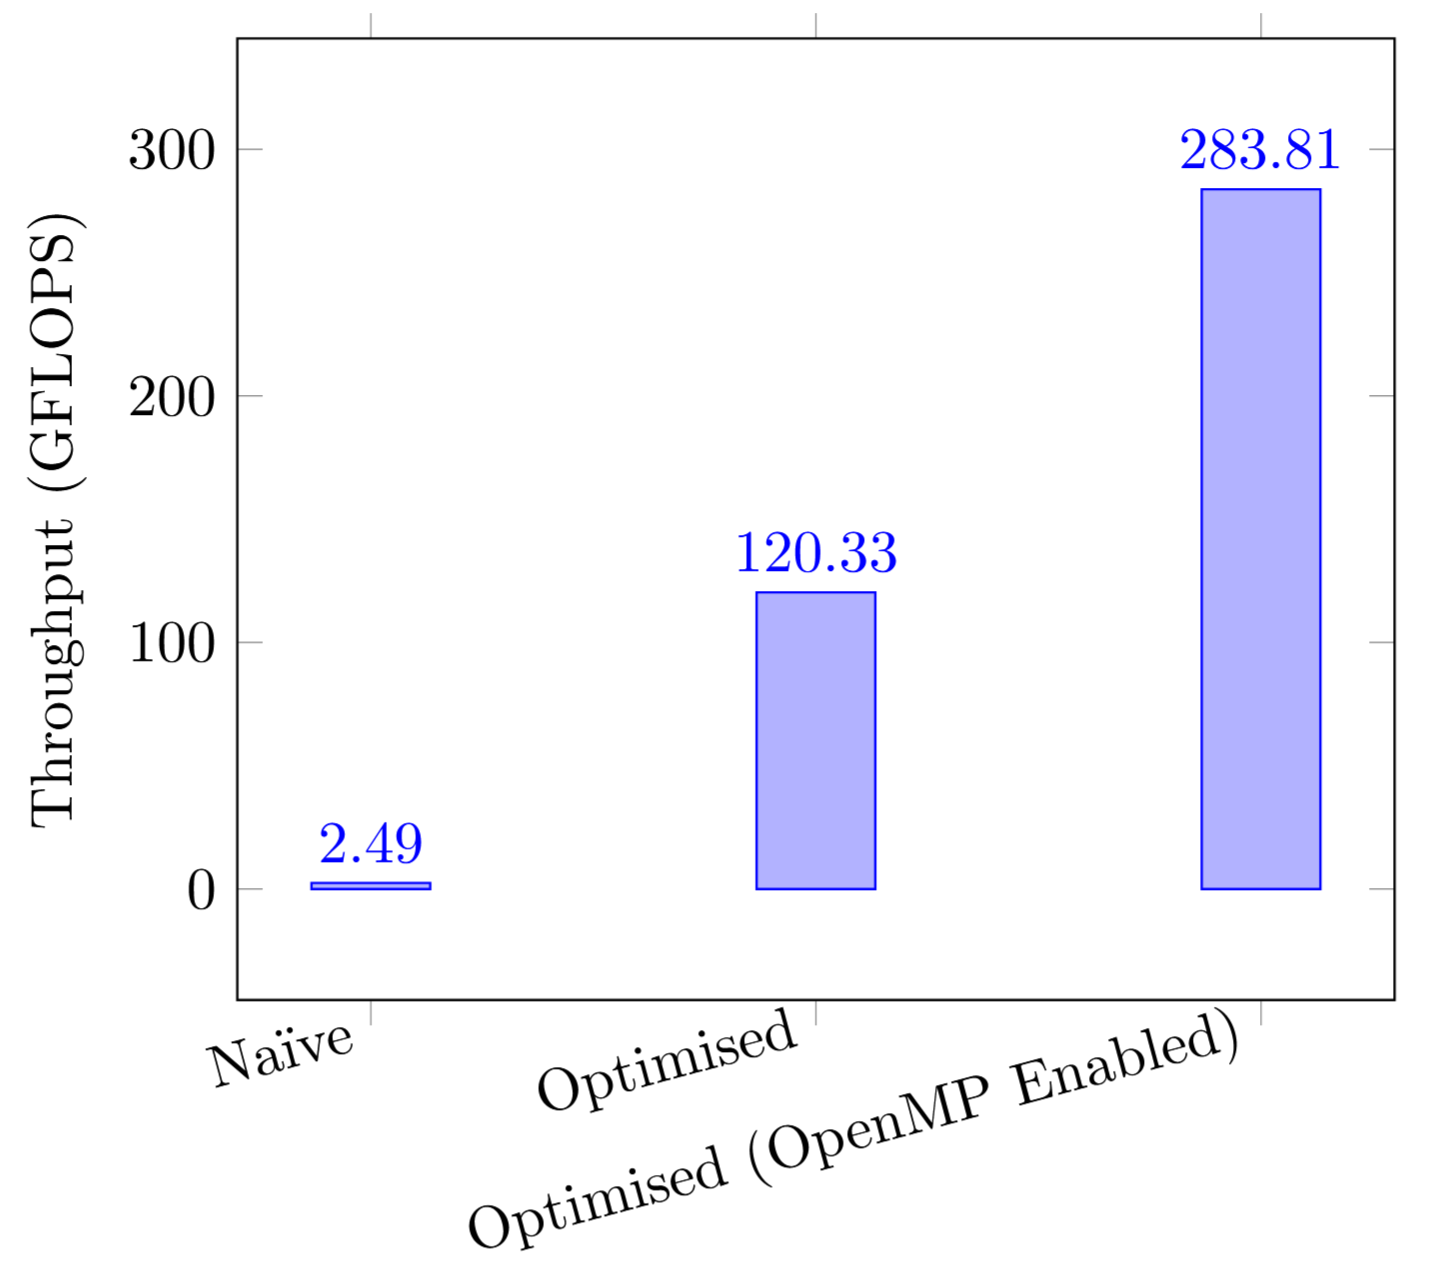
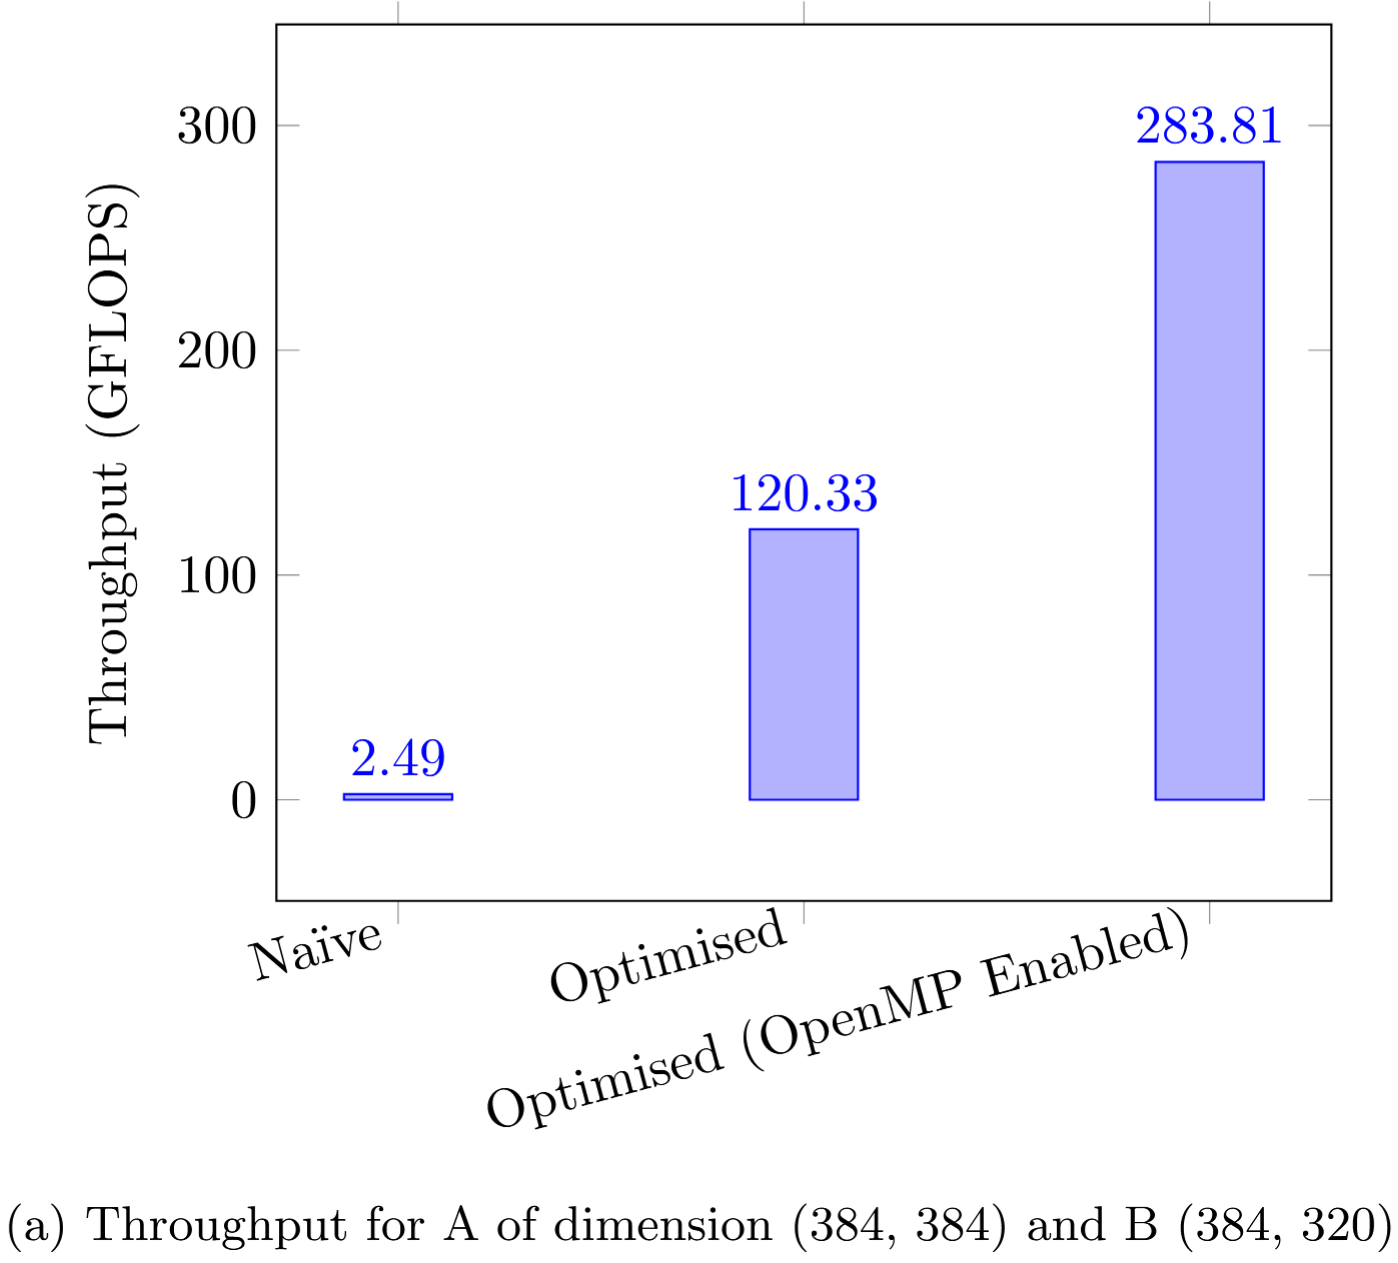
update image display

diff --git a/docs.md b/docs.md
@@ -117,17 +117,10 @@ The results, shown below, highlight the importance of optimising this operation.
 
 The optimised implementation was able to maintain a high amount of numerical accuracy with relative error measurements never exceeding $10^{-5}$ when compared with the naïve implementation. Given the use of floating-point numbers here, some error is expected and these results are well within acceptable floating-point tolerances.
 
-<div style="display: flex; justify-content: space-around;">
-  <figure>
-    <img src="img/results_384.png" alt="Image 1" style="max-width:100%;" />
-    <figcaption style="text-align: center;">Throughput for A of dimension (384, 384) and B (384, 320)</figcaption>
-  </figure>
-  <figure>
-    <img src="img/results_768.png" alt="Image 2" style="max-width:100%;" />
-    <figcaption style="text-align: center;">Throughput for A of dimension (768, 768) and B (768, 640)</figcaption>
-  </figure>
-</div>
-
+<p float="left">
+  <img src="img/results_384.png" width="48%" />
+  <img src="img/results_768.png" width="48%" /> 
+</p>
 
 > Note: The results shown were the peak recorded results for those matrix dimensions on a 3.6 GHz Intel i7 Processor. Performance may vary depending on specific hardware, matrix dimensions and block sizes. The block sizes used (3×32) were chosen to optimise for the specific hardware used in testing.
 
